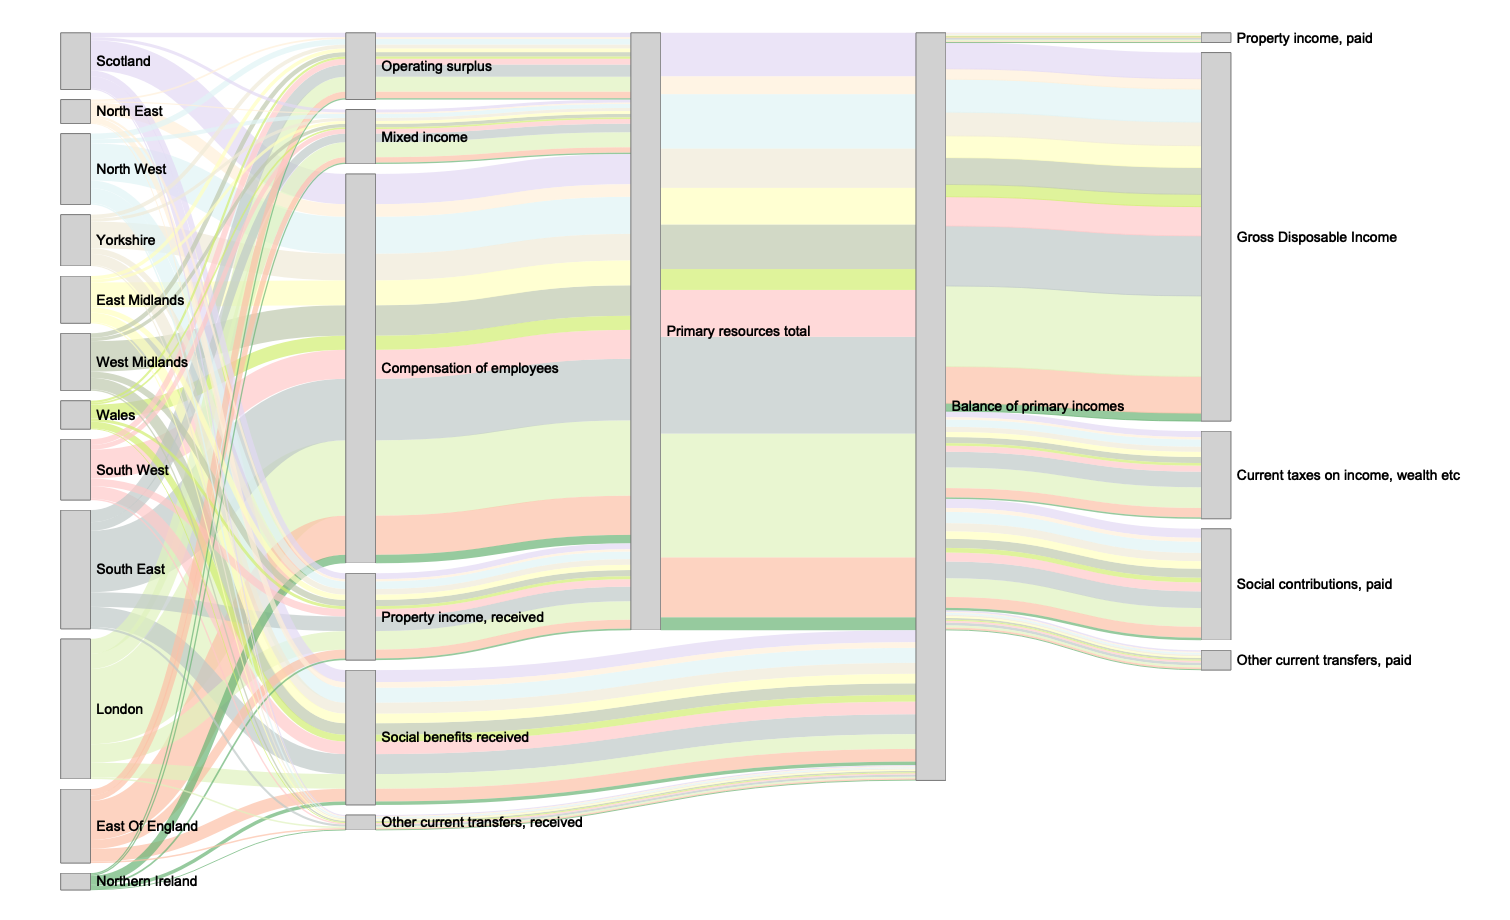
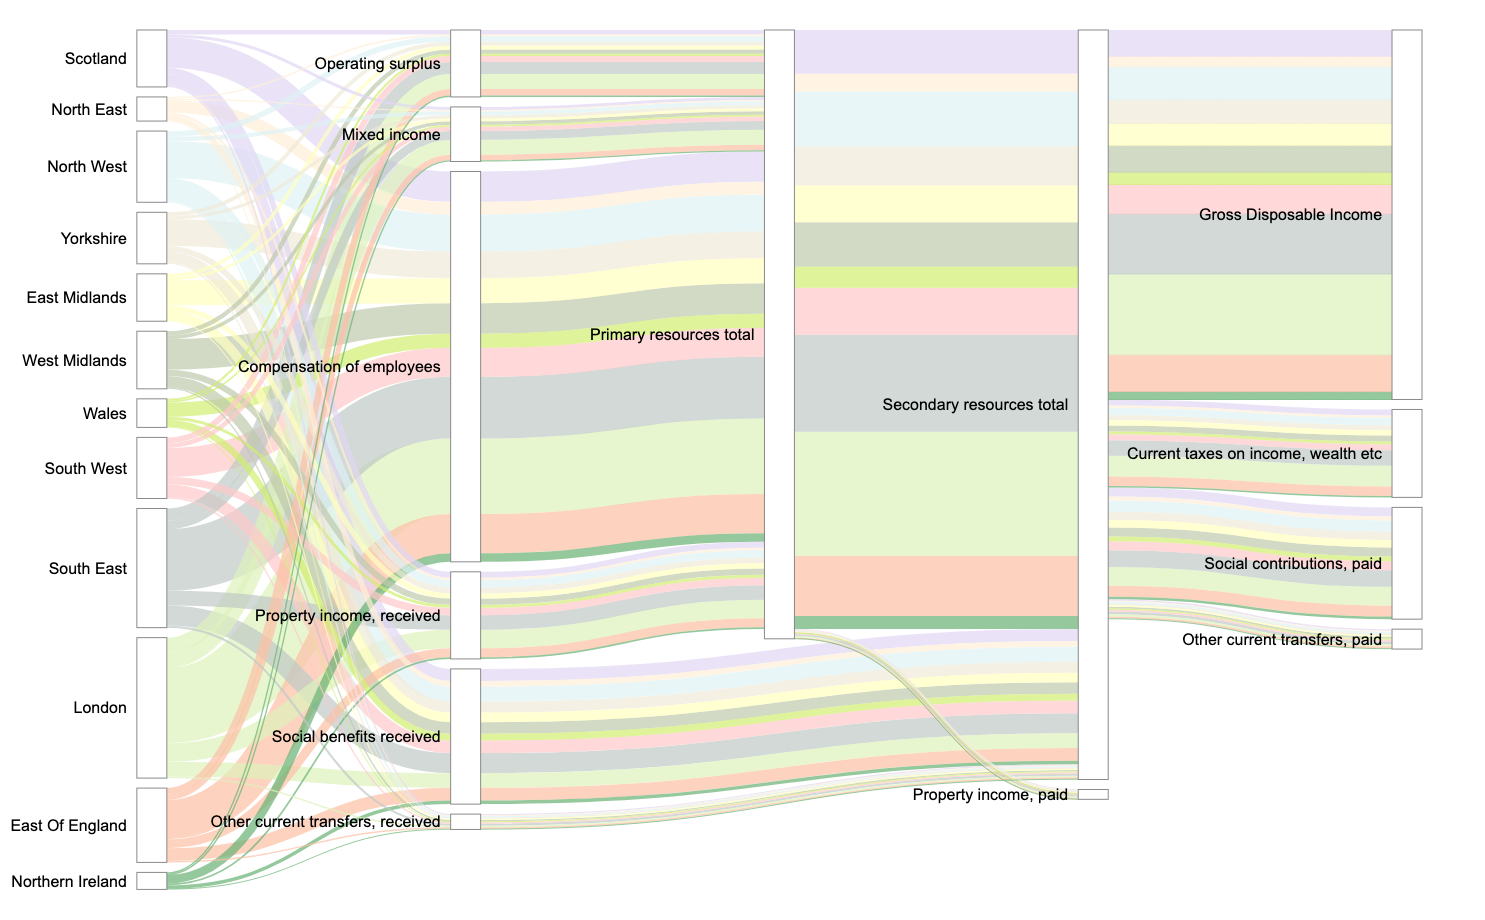
Updates

diff --git a/projects/ons_region_gdhi_1997_2018/outputs/html/gdhi_nuts1_sankey.html b/projects/ons_region_gdhi_1997_2018/outputs/html/gdhi_nuts1_sankey.html
@@ -11,11 +11,11 @@
 </head>
 <body style="background-color: white;">
 <div id="htmlwidget_container">
-<div id="htmlwidget-ed62d86e8e888a416b75" class="sankeyNetwork html-widget" style="width:1500px;height:900px;">
+<div id="htmlwidget-34b31fc645725eb9ca90" class="sankeyNetwork html-widget" style="width:1700px;height:900px;">
 
 </div>
 </div>
-<script type="application/json" data-for="htmlwidget-ed62d86e8e888a416b75">{"x":{"links":{"source":[0,0,0,0,0,0,12,14,15,16,13,17,17,20,21,17,17,17,17,1,1,1,1,1,1,12,14,15,16,13,17,17,20,21,17,17,17,17,2,2,2,2,2,2,12,14,15,16,13,17,17,20,21,17,17,17,17,3,3,3,3,3,3,12,14,15,16,13,17,17,20,21,17,17,17,17,4,4,4,4,4,4,12,14,15,16,13,17,17,20,21,17,17,17,17,12,14,15,16,13,17,17,20,21,17,17,17,17,5,5,5,5,5,5,6,6,6,6,6,6,12,14,15,16,13,17,17,20,21,17,17,17,17,7,7,7,7,7,7,12,14,15,16,13,17,17,20,21,17,17,17,17,8,8,8,8,8,8,12,14,15,16,13,17,17,20,21,17,17,17,17,9,9,9,9,9,9,12,14,15,16,13,17,17,20,21,17,17,17,17,10,10,10,10,10,10,12,14,15,16,13,17,17,20,21,17,17,17,17,11,11,11,11,11,11,12,14,15,16,13,17,17,20,21,17,17,17,17],"target":[12,14,15,16,20,21,13,13,13,13,17,18,19,17,17,22,23,24,19,12,14,15,16,20,21,13,13,13,13,17,18,19,17,17,22,23,24,19,12,14,15,16,20,21,13,13,13,13,17,18,19,17,17,22,23,24,19,12,14,15,16,20,21,13,13,13,13,17,18,19,17,17,22,23,24,19,12,14,15,16,20,21,13,13,13,13,17,18,19,17,17,22,23,24,19,13,13,13,13,17,18,19,17,17,22,23,24,19,12,14,15,16,20,21,12,14,15,16,20,21,13,13,13,13,17,18,19,17,17,22,23,24,19,12,14,15,16,20,21,13,13,13,13,17,18,19,17,17,22,23,24,19,12,14,15,16,20,21,13,13,13,13,17,18,19,17,17,22,23,24,19,12,14,15,16,20,21,13,13,13,13,17,18,19,17,17,22,23,24,19,12,14,15,16,20,21,13,13,13,13,17,18,19,17,17,22,23,24,19,12,14,15,16,20,21,13,13,13,13,17,18,19,17,17,22,23,24,19],"value":[11898,8282,81753,15850,32473,3313,11898,8282,81753,15850,117782,1966,70647,32473,3313,16246,24554,4369,null,4702,3282,33953,6181,15138,1813,4702,3282,33953,6181,48118,760,28220,15138,1813,6291,10527,2320,null,15436,11115,100201,20645,40612,4110,15436,11115,100201,20645,147397,2579,89175,40612,4110,19793,30391,5459,null,10563,8296,71896,15324,29642,3260,10563,8296,71896,15324,106080,1697,63895,29642,3260,13916,22298,4274,null,9739,7746,67254,14098,25766,3236,9739,7746,67254,14098,98837,1939,58802,25766,3236,13720,20239,4136,null,11978,9320,82362,16863,120523,2104,72685,31079,3761,16389,24507,4838,null,11978,9320,82362,16863,31079,3761,5950,4560,38062,7910,18243,2336,5950,4560,38062,7910,56483,786,33091,18243,2336,7096,12577,2933,null,15798,12584,78324,20073,34112,3857,15798,12584,78324,20073,126778,2282,79101,34112,3857,16260,24204,4931,null,32753,23073,166312,39401,53989,5807,32753,23073,166312,39401,261539,4468,162316,53989,5807,42216,45046,7493,null,40491,40687,203670,50027,39729,4172,40491,40687,203670,50027,334874,4827,217661,39729,4172,55930,50696,5760,null,17582,14565,105853,23926,34351,4092,17582,14565,105853,23926,161927,2733,99255,34351,4092,25194,29512,5233,null,3646,3623,22951,4590,9454,1636,3646,3623,22951,4590,34810,418,21537,9454,1636,4025,6861,1969,null],"group":["Purple","Purple","Purple","Purple","Purple","Purple","Purple","Purple","Purple","Purple","Purple","Purple","Purple","Purple","Purple","Purple","Purple","Purple","Purple","Orange","Orange","Orange","Orange","Orange","Orange","Orange","Orange","Orange","Orange","Orange","Orange","Orange","Orange","Orange","Orange","Orange","Orange","Orange","Blue","Blue","Blue","Blue","Blue","Blue","Blue","Blue","Blue","Blue","Blue","Blue","Blue","Blue","Blue","Blue","Blue","Blue","Blue","Brown","Brown","Brown","Brown","Brown","Brown","Brown","Brown","Brown","Brown","Brown","Brown","Brown","Brown","Brown","Brown","Brown","Brown","Brown","Yellow","Yellow","Yellow","Yellow","Yellow","Yellow","Yellow","Yellow","Yellow","Yellow","Yellow","Yellow","Yellow","Yellow","Yellow","Yellow","Yellow","Yellow","Yellow","Olive","Olive","Olive","Olive","Olive","Olive","Olive","Olive","Olive","Olive","Olive","Olive","Olive","Olive","Olive","Olive","Olive","Olive","Olive","Lime","Lime","Lime","Lime","Lime","Lime","Lime","Lime","Lime","Lime","Lime","Lime","Lime","Lime","Lime","Lime","Lime","Lime","Lime","Pink","Pink","Pink","Pink","Pink","Pink","Pink","Pink","Pink","Pink","Pink","Pink","Pink","Pink","Pink","Pink","Pink","Pink","Pink","Grey","Grey","Grey","Grey","Grey","Grey","Grey","Grey","Grey","Grey","Grey","Grey","Grey","Grey","Grey","Grey","Grey","Grey","Grey","Green","Green","Green","Green","Green","Green","Green","Green","Green","Green","Green","Green","Green","Green","Green","Green","Green","Green","Green","Tangerine","Tangerine","Tangerine","Tangerine","Tangerine","Tangerine","Tangerine","Tangerine","Tangerine","Tangerine","Tangerine","Tangerine","Tangerine","Tangerine","Tangerine","Tangerine","Tangerine","Tangerine","Tangerine","Clover","Clover","Clover","Clover","Clover","Clover","Clover","Clover","Clover","Clover","Clover","Clover","Clover","Clover","Clover","Clover","Clover","Clover","Clover"]},"nodes":{"name":["Scotland","North East","North West","Yorkshire","East Midlands","West Midlands","Wales","South West","South East","London","East Of England","Northern Ireland","Operating surplus","Primary resources total","Mixed income","Compensation of employees","Property income, received","Balance of primary incomes","Property income, paid","Gross Disposable Income","Social benefits received","Other current transfers, received","Current taxes on income, wealth etc","Social contributions, paid","Other current transfers, paid"],"group":[null,null,null,null,null,null,null,null,null,null,null,null,null,null,null,null,null,null,null,null,null,null,null,null,null]},"options":{"NodeID":"name","NodeGroup":"color","LinkGroup":"color","colourScale":"d3.scaleOrdinal()\n    .domain([\"Purple\",\"Orange\",\"Blue\",\"Brown\",\"Yellow\",\"Olive\",\"Lime\",\"Pink\",\"Grey\",\"Green\",\"Tangerine\",\"Clover\" ])\n    .range([\"#e2d8f4\",\"#ffefd9\",\"#dff3f5\",\"#efead7\",\"#ffffbf\",\"#bfc9ad\",\"#d1ee70\",\"#ffc9c9\",\"#bfc9c7\",\"#dff2bd\",\"#fcc0a6\",\"#68B374\"])","fontSize":14,"fontFamily":"Arial","nodeWidth":30,"nodePadding":10,"units":"(£m)","margin":{"top":null,"right":null,"bottom":null,"left":null},"iterations":0,"sinksRight":false}},"evals":[],"jsHooks":[]}</script>
-<script type="application/htmlwidget-sizing" data-for="htmlwidget-ed62d86e8e888a416b75">{"viewer":{"width":1500,"height":900,"padding":10,"fill":false},"browser":{"width":1500,"height":900,"padding":10,"fill":false}}</script>
+<script type="application/json" data-for="htmlwidget-34b31fc645725eb9ca90">{"x":{"links":{"source":[0,0,0,0,0,0,12,14,15,16,13,13,17,20,21,17,17,17,17,1,1,1,1,1,1,12,14,15,16,13,13,17,20,21,17,17,17,17,2,2,2,2,2,2,12,14,15,16,13,13,17,20,21,17,17,17,17,3,3,3,3,3,3,12,14,15,16,13,13,17,20,21,17,17,17,17,4,4,4,4,4,4,12,14,15,16,13,13,17,20,21,17,17,17,17,5,5,5,5,5,5,12,14,15,16,13,13,17,20,21,17,17,17,17,6,6,6,6,6,6,12,14,15,16,13,13,17,20,21,17,17,17,17,7,7,7,7,7,7,12,14,15,16,13,13,17,20,21,17,17,17,17,8,8,8,8,8,8,12,14,15,16,13,13,17,20,21,17,17,17,17,9,9,9,9,9,9,12,14,15,16,13,13,17,20,21,17,17,17,17,10,10,10,10,10,10,12,14,15,16,13,13,17,20,21,17,17,17,17,11,11,11,11,11,11,12,14,15,16,13,13,17,20,21,17,17,17,17],"target":[12,14,15,16,20,21,13,13,13,13,17,18,19,17,17,22,23,24,19,12,14,15,16,20,21,13,13,13,13,17,18,19,17,17,22,23,24,19,12,14,15,16,20,21,13,13,13,13,17,18,19,17,17,22,23,24,19,12,14,15,16,20,21,13,13,13,13,17,18,19,17,17,22,23,24,19,12,14,15,16,20,21,13,13,13,13,17,18,19,17,17,22,23,24,19,12,14,15,16,20,21,13,13,13,13,17,18,19,17,17,22,23,24,19,12,14,15,16,20,21,13,13,13,13,17,18,19,17,17,22,23,24,19,12,14,15,16,20,21,13,13,13,13,17,18,19,17,17,22,23,24,19,12,14,15,16,20,21,13,13,13,13,17,18,19,17,17,22,23,24,19,12,14,15,16,20,21,13,13,13,13,17,18,19,17,17,22,23,24,19,12,14,15,16,20,21,13,13,13,13,17,18,19,17,17,22,23,24,19,12,14,15,16,20,21,13,13,13,13,17,18,19,17,17,22,23,24,19],"value":[11898,8282,81753,15850,32473,3313,11898,8282,81753,15850,117782,1966,70647,32473,3313,16246,24554,4369,null,4702,3282,33953,6181,15138,1813,4702,3282,33953,6181,48118,760,28220,15138,1813,6291,10527,2320,null,15436,11115,100201,20645,40612,4110,15436,11115,100201,20645,147397,2579,89175,40612,4110,19793,30391,5459,null,10563,8296,71896,15324,29642,3260,10563,8296,71896,15324,106080,1697,63895,29642,3260,13916,22298,4274,null,9739,7746,67254,14098,25766,3236,9739,7746,67254,14098,98837,1939,58802,25766,3236,13720,20239,4136,null,11978,9320,82362,16863,31079,3761,11978,9320,82362,16863,120523,2104,72685,31079,3761,16389,24507,4838,null,5950,4560,38062,7910,18243,2336,5950,4560,38062,7910,56483,786,33091,18243,2336,7096,12577,2933,null,15798,12584,78324,20073,34112,3857,15798,12584,78324,20073,126778,2282,79101,34112,3857,16260,24204,4931,null,32753,23073,166312,39401,53989,5807,32753,23073,166312,39401,261539,4468,162316,53989,5807,42216,45046,7493,null,40491,40687,203670,50027,39729,4172,40491,40687,203670,50027,334874,4827,217661,39729,4172,55930,50696,5760,null,17582,14565,105853,23926,34351,4092,17582,14565,105853,23926,161927,2733,99255,34351,4092,25194,29512,5233,null,3646,3623,22951,4590,9454,1636,3646,3623,22951,4590,34810,418,21537,9454,1636,4025,6861,1969,null],"group":["Purple","Purple","Purple","Purple","Purple","Purple","Purple","Purple","Purple","Purple","Purple","Purple","Purple","Purple","Purple","Purple","Purple","Purple","Purple","Orange","Orange","Orange","Orange","Orange","Orange","Orange","Orange","Orange","Orange","Orange","Orange","Orange","Orange","Orange","Orange","Orange","Orange","Orange","Blue","Blue","Blue","Blue","Blue","Blue","Blue","Blue","Blue","Blue","Blue","Blue","Blue","Blue","Blue","Blue","Blue","Blue","Blue","Brown","Brown","Brown","Brown","Brown","Brown","Brown","Brown","Brown","Brown","Brown","Brown","Brown","Brown","Brown","Brown","Brown","Brown","Brown","Yellow","Yellow","Yellow","Yellow","Yellow","Yellow","Yellow","Yellow","Yellow","Yellow","Yellow","Yellow","Yellow","Yellow","Yellow","Yellow","Yellow","Yellow","Yellow","Olive","Olive","Olive","Olive","Olive","Olive","Olive","Olive","Olive","Olive","Olive","Olive","Olive","Olive","Olive","Olive","Olive","Olive","Olive","Lime","Lime","Lime","Lime","Lime","Lime","Lime","Lime","Lime","Lime","Lime","Lime","Lime","Lime","Lime","Lime","Lime","Lime","Lime","Pink","Pink","Pink","Pink","Pink","Pink","Pink","Pink","Pink","Pink","Pink","Pink","Pink","Pink","Pink","Pink","Pink","Pink","Pink","Grey","Grey","Grey","Grey","Grey","Grey","Grey","Grey","Grey","Grey","Grey","Grey","Grey","Grey","Grey","Grey","Grey","Grey","Grey","Green","Green","Green","Green","Green","Green","Green","Green","Green","Green","Green","Green","Green","Green","Green","Green","Green","Green","Green","Tangerine","Tangerine","Tangerine","Tangerine","Tangerine","Tangerine","Tangerine","Tangerine","Tangerine","Tangerine","Tangerine","Tangerine","Tangerine","Tangerine","Tangerine","Tangerine","Tangerine","Tangerine","Tangerine","Clover","Clover","Clover","Clover","Clover","Clover","Clover","Clover","Clover","Clover","Clover","Clover","Clover","Clover","Clover","Clover","Clover","Clover","Clover"]},"nodes":{"name":["Scotland","North East","North West","Yorkshire","East Midlands","West Midlands","Wales","South West","South East","London","East Of England","Northern Ireland","Operating surplus","Primary resources total","Mixed income","Compensation of employees","Property income, received","Secondary resources total","Property income, paid","Gross Disposable Income","Social benefits received","Other current transfers, received","Current taxes on income, wealth etc","Social contributions, paid","Other current transfers, paid"],"group":["will pick first color i.e. white","will pick first color i.e. white","will pick first color i.e. white","will pick first color i.e. white","will pick first color i.e. white","will pick first color i.e. white","will pick first color i.e. white","will pick first color i.e. white","will pick first color i.e. white","will pick first color i.e. white","will pick first color i.e. white","will pick first color i.e. white","will pick first color i.e. white","will pick first color i.e. white","will pick first color i.e. white","will pick first color i.e. white","will pick first color i.e. white","will pick first color i.e. white","will pick first color i.e. white","will pick first color i.e. white","will pick first color i.e. white","will pick first color i.e. white","will pick first color i.e. white","will pick first color i.e. white","will pick first color i.e. white"]},"options":{"NodeID":"name","NodeGroup":"color","LinkGroup":"color","colourScale":"d3.scaleOrdinal()\n    .domain([\"White\", \"Purple\",\"Orange\",\"Blue\",\"Brown\",\"Yellow\",\"Olive\",\"Lime\",\"Pink\",\"Grey\",\"Green\",\"Tangerine\",\"Clover\" ])\n    .range([\"#FFFFFF\" , \"#e2d8f4\", \"#ffefd9\", \"#dff3f5\", \"#efead7\", \"#ffffbf\", \"#bfc9ad\", \"#d1ee70\", \"#ffc9c9\", \"#bfc9c7\", \"#dff2bd\", \"#fcc0a6\", \"#68B374\"])","fontSize":16,"fontFamily":"Arial","nodeWidth":30,"nodePadding":10,"units":"(£m)","margin":{"top":null,"right":100,"bottom":null,"left":0},"iterations":0,"sinksRight":false}},"evals":[],"jsHooks":{"render":[{"code":"function(el, x) {\n    d3.selectAll(\".node text\").attr(\"fill\", \"white\");\n    d3.selectAll(\".node text\").attr(\"text-anchor\", \"end\").attr(\"x\", -10);\n    d3.select(\"body\").style(\"background-color\", \"#818380\"); \n  }","data":null},{"code":"function(el, x) {\n    d3.selectAll(\".node text\").attr(\"fill\", \"black\");\n    d3.selectAll(\".node text\").attr(\"text-anchor\", \"end\").attr(\"x\", -10);\n    d3.select(\"body\").style(\"background-color\", \"#FFFFFF\"); \n  }","data":null}]}}</script>
+<script type="application/htmlwidget-sizing" data-for="htmlwidget-34b31fc645725eb9ca90">{"viewer":{"width":1700,"height":900,"padding":10,"fill":false},"browser":{"width":1700,"height":900,"padding":10,"fill":false}}</script>
 </body>
 </html>
